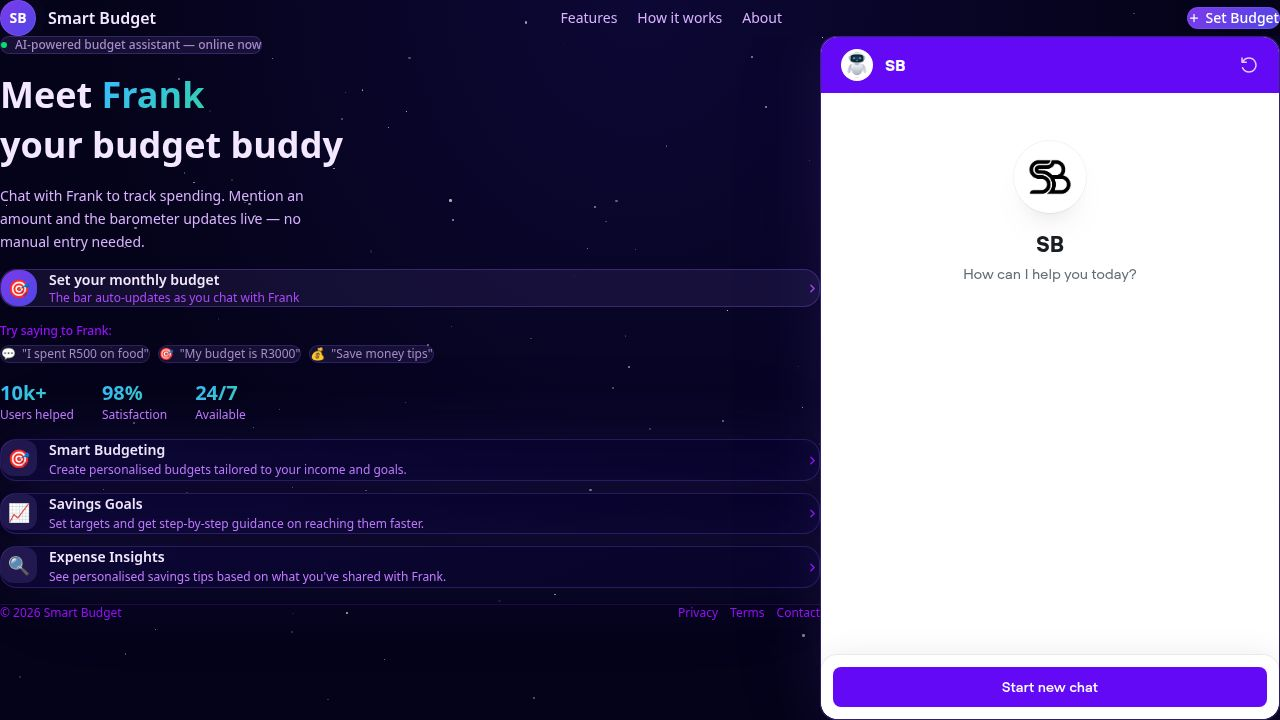
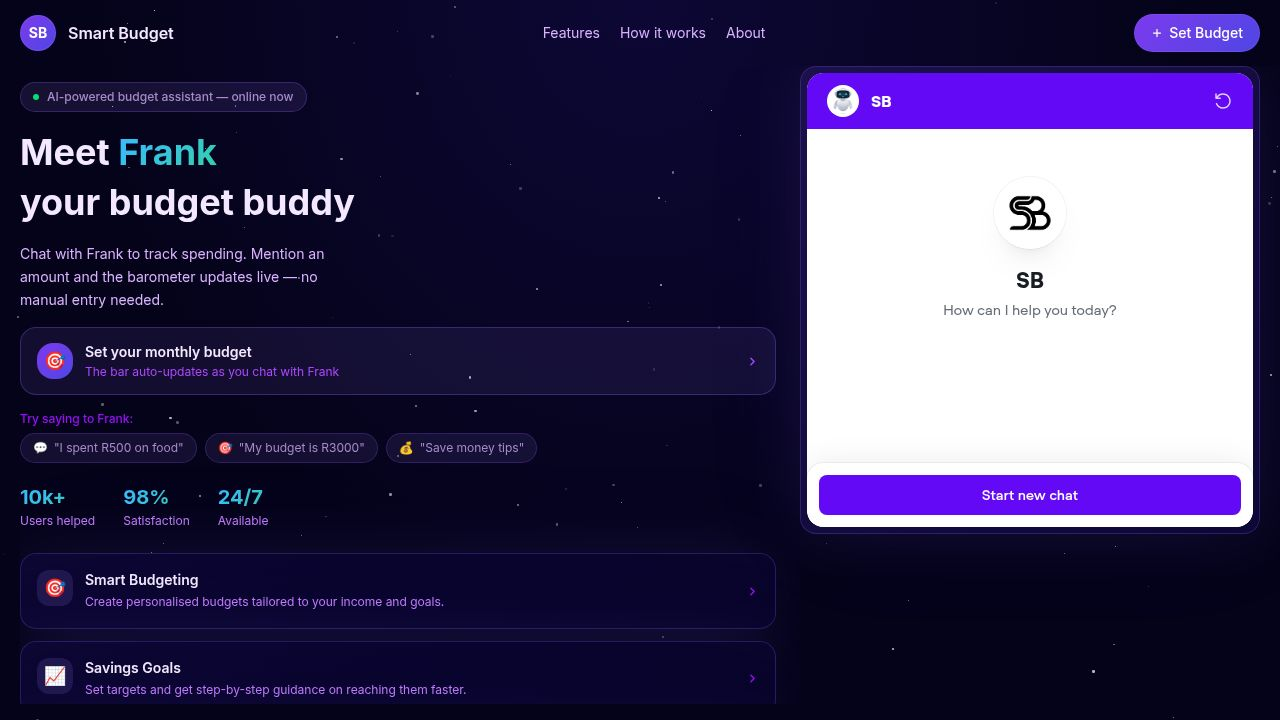
Fix Netlify deployment by correcting build configuration
Update vite.config.ts for smart-budget to use safe defaults, and create netlify.toml to target the smart-budget app for deployment.

Replit-Commit-Author: Agent
Replit-Commit-Session-Id: 51062eae-7084-4709-949c-62249597aaf6
Replit-Commit-Checkpoint-Type: full_checkpoint
Replit-Commit-Event-Id: 920f67dc-f5ca-4188-8a72-535f6f598d39
Replit-Commit-Screenshot-Url: https://storage.googleapis.com/screenshot-production-us-central1/537149b4-e7eb-44b8-8e27-c84e7146861c/51062eae-7084-4709-949c-62249597aaf6/W1JKanS
Replit-Helium-Checkpoint-Created: true

diff --git a/artifacts/smart-budget/vite.config.ts b/artifacts/smart-budget/vite.config.ts
@@ -2,54 +2,43 @@ import { defineConfig } from "vite";
 import react from "@vitejs/plugin-react";
 import tailwindcss from "@tailwindcss/vite";
 import path from "path";
-import runtimeErrorOverlay from "@replit/vite-plugin-runtime-error-modal";
 
-const rawPort = process.env.PORT;
+const port = Number(process.env.PORT ?? "5173");
+const basePath = process.env.BASE_PATH ?? "/";
 
-if (!rawPort) {
-  throw new Error(
-    "PORT environment variable is required but was not provided.",
-  );
-}
-
-const port = Number(rawPort);
-
-if (Number.isNaN(port) || port <= 0) {
-  throw new Error(`Invalid PORT value: "${rawPort}"`);
-}
-
-const basePath = process.env.BASE_PATH;
-
-if (!basePath) {
-  throw new Error(
-    "BASE_PATH environment variable is required but was not provided.",
-  );
-}
-
-export default defineConfig({
+export default defineConfig(({ command }) => ({
   base: basePath,
   plugins: [
     react(),
     tailwindcss(),
-    runtimeErrorOverlay(),
-    ...(process.env.NODE_ENV !== "production" &&
+    ...(command === "serve" &&
+    process.env.NODE_ENV !== "production" &&
     process.env.REPL_ID !== undefined
       ? [
-          await import("@replit/vite-plugin-cartographer").then((m) =>
-            m.cartographer({
+          (async () =>
+            (
+              await import("@replit/vite-plugin-runtime-error-modal")
+            ).default())(),
+          (async () =>
+            (
+              await import("@replit/vite-plugin-cartographer")
+            ).cartographer({
               root: path.resolve(import.meta.dirname, ".."),
-            }),
-          ),
-          await import("@replit/vite-plugin-dev-banner").then((m) =>
-            m.devBanner(),
-          ),
+            }))(),
+          (async () =>
+            (await import("@replit/vite-plugin-dev-banner")).devBanner())(),
         ]
       : []),
   ],
   resolve: {
     alias: {
       "@": path.resolve(import.meta.dirname, "src"),
-      "@assets": path.resolve(import.meta.dirname, "..", "..", "attached_assets"),
+      "@assets": path.resolve(
+        import.meta.dirname,
+        "..",
+        "..",
+        "attached_assets",
+      ),
     },
     dedupe: ["react", "react-dom"],
   },
@@ -72,4 +61,4 @@ export default defineConfig({
     host: "0.0.0.0",
     allowedHosts: true,
   },
-});
+}));